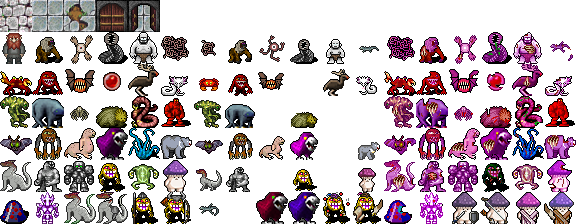
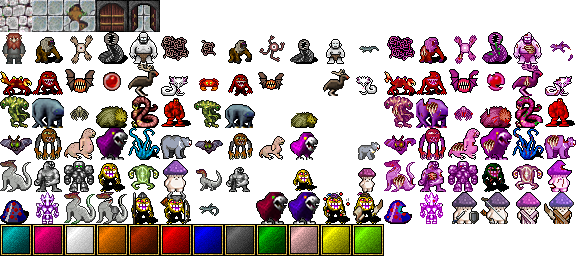
add bars for skills and inventory

diff --git a/assets/index.js b/assets/index.js
@@ -12,7 +12,7 @@ var Game = {
   init: function() {
     this.display = new ROT.Display({
       width: this.screenWidth,
-      height: this.screenHeight,
+      height: this.screenHeight + 1,
       layout: "tile",
       tileColorize: true,
       fg: "transparent",
@@ -51,26 +51,32 @@ var Game = {
       tempentity.x = freeplace[0];
       tempentity.y = freeplace[1];
       Game.entity.push(tempentity);
-      if ("Actor" in Game.entity[Game.entity.length-1].acts) {
-        scheduler.add(Game.entity[Game.entity.length-1], true);
+      if ("Actor" in Game.entity[Game.entity.length - 1].acts) {
+        scheduler.add(Game.entity[Game.entity.length - 1], true);
       }
     }
     this.drawAll();
-    for (let i = 1;i < 10; i++) {
-      Game.podskazka.draw((i-1)*4+2, 0, i, "red");
-    }
-    var invpodsk = [ 'a','b','c','d','e','f','g','h','i','j','k','l','m','n','o','p'];
-    for (let i = 0;i < 16; i++) {
-      Game.podskazka.draw((i+MapWidth-16)*4+1, 0, invpodsk[i], "red");
-    }
     this.engine = new ROT.Engine(scheduler);
     this.engine.start();
+  }
+}
+
+Game.drawBar = function() {
+  for (let i = 1; i < 10; i++) {
+    Game.podskazka.draw((i - 1) * 4 + 1, 0, i, "red");
+    Game.display.draw((i - 1), Game.screenHeight, "whitesquare");
+  }
+  var invpodsk = ['a', 'b', 'c', 'd', 'e', 'f', 'g', 'h', 'i', 'j', 'k', 'l', 'm', 'n', 'o', 'p'];
+  for (let i = 0; i < 16; i++) {
+    Game.podskazka.draw((i + MapWidth - 16) * 4 + 2, 0, invpodsk[i], "red");
+    Game.display.draw(i + MapWidth - 16, Game.screenHeight, "whitesquare");
   }
 }
 
 Game.drawAll = function() {
   this.messages.clear();
   this.drawMap();
+  this.drawBar();
   this.drawEntities();
   this.messagebox.Draw();
 }

diff --git a/assets/map.js b/assets/map.js
@@ -73,7 +73,11 @@ Game.drawMap = function() {
       if (this.map.Tiles[i][j].Visited) {
         _color = "#0009"
       }
-      this.display.draw(Game.GetCamera(i, j)[0], Game.GetCamera(i, j)[1], this.map.Tiles[i][j].Symbol, _color);
+      let xco = Game.GetCamera(i, j)[0];
+      let yco = Game.GetCamera(i, j)[1];
+      if (yco < Game.screenHeight) {
+        this.display.draw(xco, yco, this.map.Tiles[i][j].Symbol, _color);
+      }
       this.map.Tiles[i][j].Visible = false;
     }
   }
@@ -81,7 +85,11 @@ Game.drawMap = function() {
     if (r > 9) {
       r = 9;
     }
-    Game.display.draw(Game.GetCamera(x, y)[0], Game.GetCamera(x, y)[1], Game.map.Tiles[x][y].Symbol, "#000" + r);
+    let xco = Game.GetCamera(x, y)[0];
+    let yco = Game.GetCamera(x, y)[1];
+    if (yco < Game.screenHeight) {
+      Game.display.draw(xco, yco, Game.map.Tiles[x][y].Symbol, "#000" + r);
+    }
     Game.map.Tiles[x][y].Visited = true;
     Game.map.Tiles[x][y].Visible = true;
   });

diff --git a/assets/entities.js b/assets/entities.js
@@ -8,6 +8,7 @@ var gameTilemap = {
   "giant": [128, 32],
   "ballofworms": [160,32],
   "worm": [192,32],
+  "whitesquare": [64,224]
 };
 
 Game.EntityRepository = new Game.Repository('entities', Entity);
